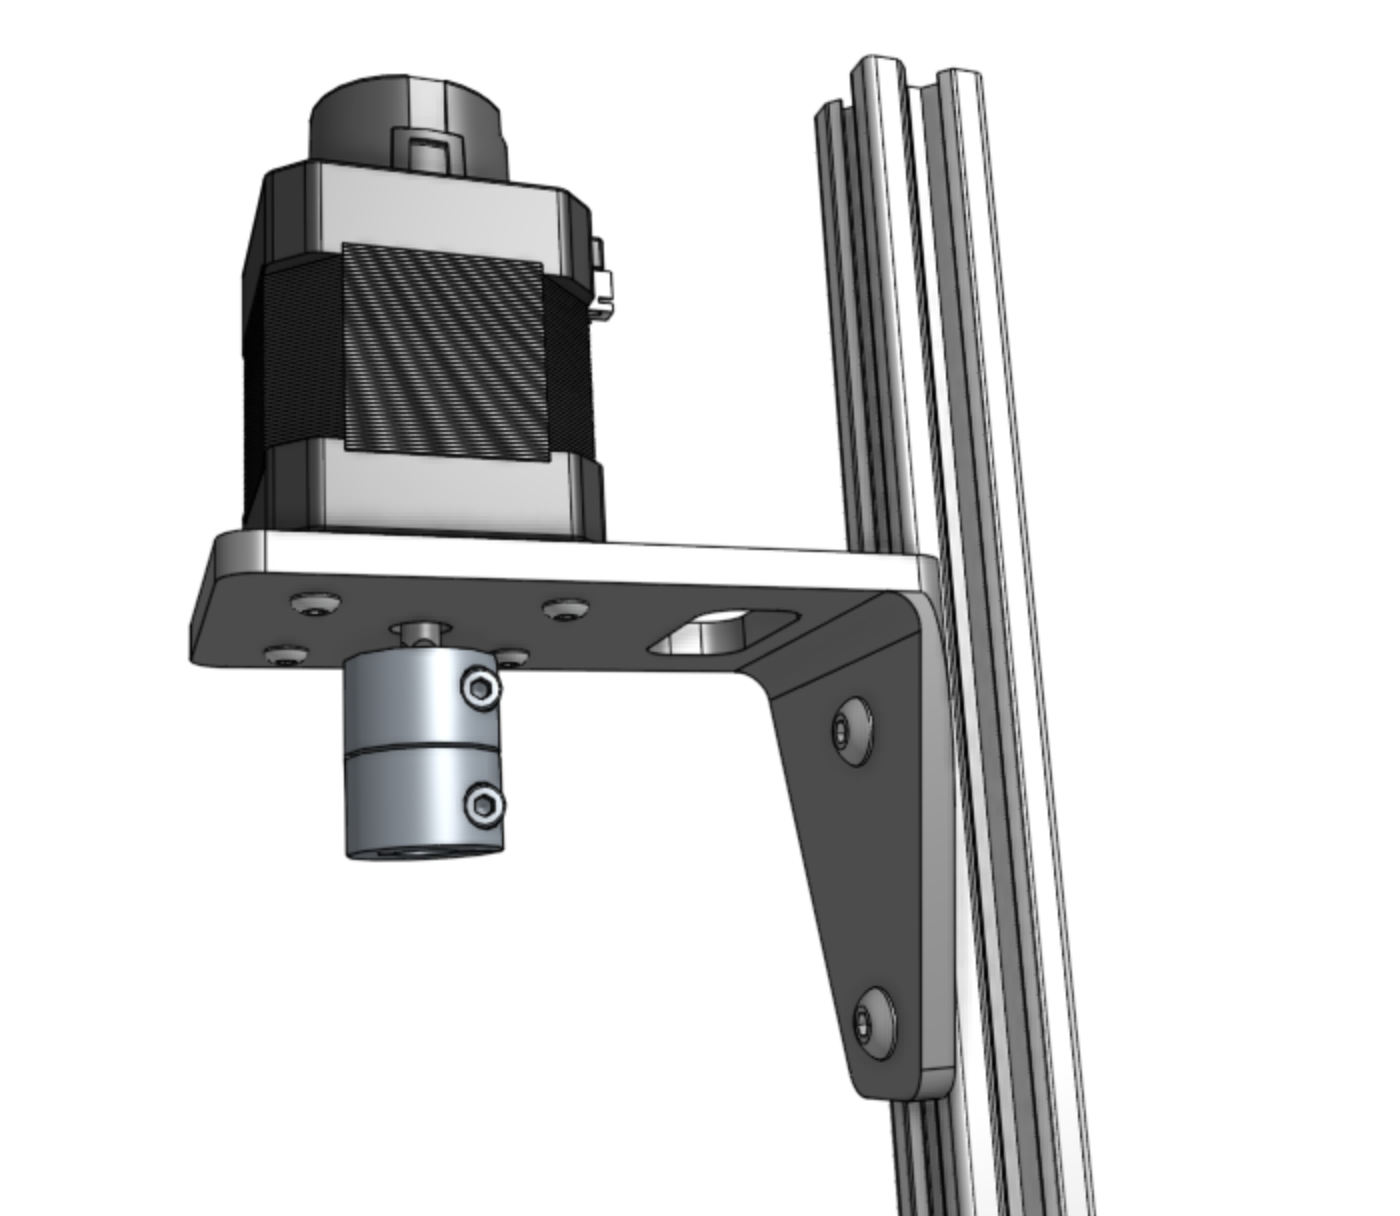
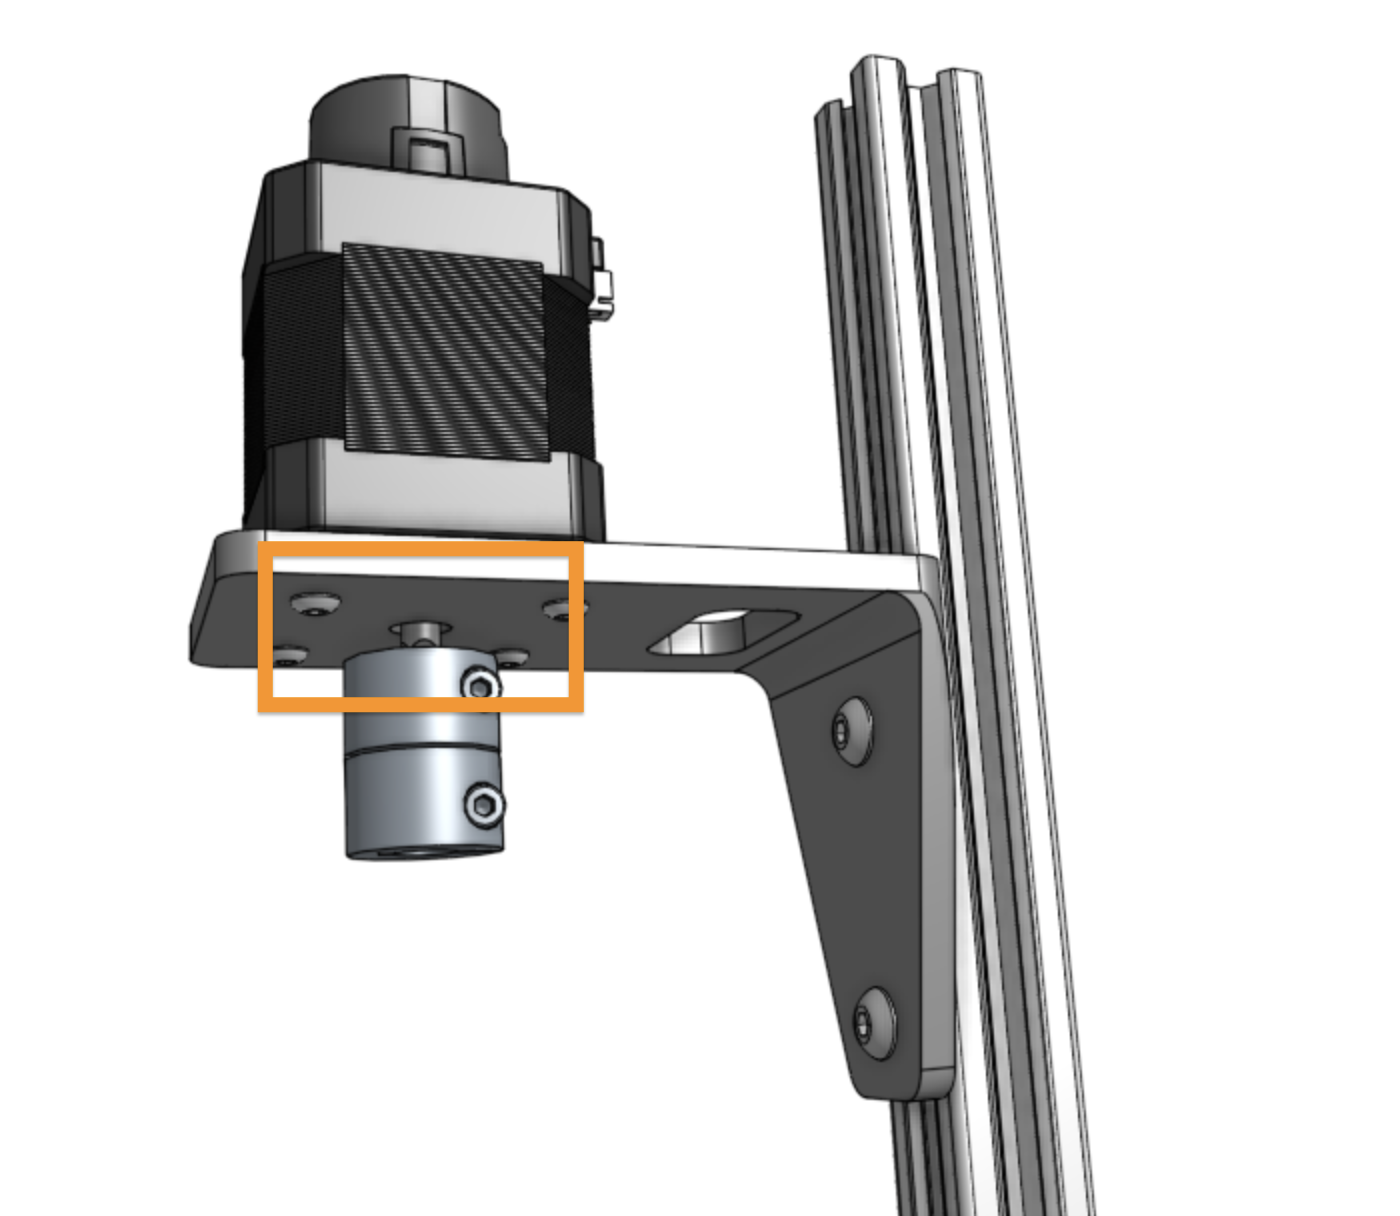
eccentric spacer and z movement improvements

Changed region(s): [[0.1843, 0.4375, 0.43, 0.5938]]

diff --git a/v1.5/Extras/reference/eccentric-spacer-adjustment.md b/v1.5/Extras/reference/eccentric-spacer-adjustment.md
@@ -12,6 +12,7 @@ Eccentric spacers are used for making fine adjustments to the spacing between th
 If the spacing between v-wheels is too little, then the extrusions will not fit between the v-wheels at all or be tough to move. If the spacing is too great, then the connection will be wobbly and loose. Let's adjust the eccentric spacers throughout FarmBot to be just right.
 
 # Fit test
+
 First, see if the extrusion will easily slide in between the v-wheels. It will very likely either be too loose and wobble, or too tight and not fit at all. Take note of which v-wheels need adjustment.
 
 {%
@@ -21,30 +22,50 @@ title="Don't use force"
 content="If the wheel spacing is too small, do not force it on. Excessive force can cause a screw or plate to bend, introduce significant friction to the system, cause a wheel to deform, or induce other damage."
 %}
 
-
-
 ![gantry wheel plate fit test](_images/gantry_wheel_plate_fit_test.png)
 
-# Adjusting the eccentric spacer
+# Adjusting the eccentric spacers
+
 1. Separate the extrusion and the wheel/plate assembly
 2. Using an **8mm wrench**, turn the **eccentric spacer** that needs adjusting about 1/32 of a turn. Depending on the direction you turn the spacer, and the current orientation of the spacer, the spacing will either increase or decrease. Your goal is to adjust the spacer in the direction you need. Make the spacing smaller if the connection was loose. Make the spacing larger if the extrusion did not fit between the v-wheels or if there was a lot of friction. The notch in the side of the eccentric spacer indicates the shortest distance, so moving the notch towards the other wheels will decrease the spacing.
 3. Once you have adjusted the spacer 1/32 of a turn, do another fit test.
 4. Continue the steps above for all eccentric spacers until your connections are smooth and wobble free.
 
+## Gantry wheel plates
+
+These eccentric spacers on the gantry wheel plates affect the fit of the gantry wheel plates on the tracks. To set the spacers to the loosest setting, position the `6mm` engraving on the spacers facing away from the track extrusions (down).
+
+{% include gallery.html images="
+![gantry wheel plate eccentric spacers loosest](_images/gantry_wheel_plate_eccentric_spacers_loosest.png)
 ![gantry wheel plate eccentric spacers](_images/gantry_wheel_plate_eccentric_spacers.png)
+" %}
 
-_The eccentric spacers on this gantry wheel plate have been highlighted orange for clarity._
+## Cross-slide
 
+These eccentric spacers on the cross-slide affect the fit of the cross-slide on the gantry main beam. To set the spacers to the loosest setting, position the `6mm` engraving on the spacers facing away from the gantry main beam.
 
+{% include gallery.html images="
+![cross-slide eccentric spacers loosest](_images/cross_slide_eccentric_spacers_loosest.png)
+![cross-slide eccentric spacers](_images/cross_slide_eccentric_spacers.png)
+" %}
+
+## Z-axis
+
+These eccentric spacers on the cross-slide affect the fit of the z-axis in the cross-slide. To set the spacers to the loosest setting, position the `6mm` engraving on the spacers facing away from the z-axis extrusion.
+
+{% include gallery.html images="
+![z-axis eccentric spacers loosest](_images/z_axis_eccentric_spacers_loosest.png)
+![z-axis eccentric spacers](_images/z_axis_eccentric_spacers.png)
+" %}
 
 {%
 include callout.html
 type="info"
 title="Need just a little more space?"
-content="If the fit of the wheels on the extrusion is still too tight after adjusting all of the eccentric spacers to their loosest setting (flat section and `6mm` engraving facing away from the extrusion), you can increase the distance between the two sets of wheels slightly more by adjusting the wheels with standard spacers as well. Loosen the screw attaching a wheel with a standard spacer (non-eccentric) until the single wheel assembly can be moved around in its the hole in the plate. Gently nudge the wheel assembly in its hole so that it is farther from the extrusion and re-tighten the screw. Repeat for the other wheels attached with standard spacers as necessary."
+content="If the fit of the wheels on the extrusion is still too tight after adjusting all of the eccentric spacers to their loosest setting (`6mm` engraving facing away from the extrusion), you can increase the distance between the two sets of wheels slightly more by adjusting the wheels with standard spacers as well.
+
+Loosen the screws attaching the wheels with standard spacers (non-eccentric) until the wheel assemblies can be moved around in the holes in the plate. Gently nudge the wheel assemblies in the holes so that they are farthest from the extrusion and re-tighten the screws."
 %}
-
-
 
 {%
 include callout.html

diff --git a/v1.6/extras/reference/eccentric-spacer-adjustment.md b/v1.6/extras/reference/eccentric-spacer-adjustment.md
@@ -12,6 +12,7 @@ Eccentric spacers are used for making fine adjustments to the spacing between th
 If the spacing between v-wheels is too little, then the extrusions will not fit between the v-wheels at all or be tough to move. If the spacing is too great, then the connection will be wobbly and loose. Let's adjust the eccentric spacers throughout FarmBot to be just right.
 
 # Fit test
+
 First, see if the extrusion will easily slide in between the v-wheels. It will very likely either be too loose and wobble, or too tight and not fit at all. Take note of which v-wheels need adjustment.
 
 {%
@@ -21,30 +22,50 @@ title="Don't use force"
 content="If the wheel spacing is too small, do not force it on. Excessive force can cause a screw or plate to bend, introduce significant friction to the system, cause a wheel to deform, or induce other damage."
 %}
 
-
-
 ![gantry wheel plate fit test](_images/gantry_wheel_plate_fit_test.png)
 
-# Adjusting the eccentric spacer
+# Adjusting the eccentric spacers
+
 1. Separate the extrusion and the wheel/plate assembly
 2. Using an **8mm wrench**, turn the **eccentric spacer** that needs adjusting about 1/32 of a turn. Depending on the direction you turn the spacer, and the current orientation of the spacer, the spacing will either increase or decrease. Your goal is to adjust the spacer in the direction you need. Make the spacing smaller if the connection was loose. Make the spacing larger if the extrusion did not fit between the v-wheels or if there was a lot of friction. The notch in the side of the eccentric spacer indicates the shortest distance, so moving the notch towards the other wheels will decrease the spacing.
 3. Once you have adjusted the spacer 1/32 of a turn, do another fit test.
 4. Continue the steps above for all eccentric spacers until your connections are smooth and wobble free.
 
+## Gantry wheel plates
+
+These eccentric spacers on the gantry wheel plates affect the fit of the gantry wheel plates on the tracks. To set the spacers to the loosest setting, position the `6mm` engraving on the spacers facing away from the track extrusions (down).
+
+{% include gallery.html images="
+![gantry wheel plate eccentric spacers loosest](_images/gantry_wheel_plate_eccentric_spacers_loosest.png)
 ![gantry wheel plate eccentric spacers](_images/gantry_wheel_plate_eccentric_spacers.png)
+" %}
 
-_The eccentric spacers on this gantry wheel plate have been highlighted orange for clarity._
+## Cross-slide
 
+These eccentric spacers on the cross-slide affect the fit of the cross-slide on the gantry main beam. To set the spacers to the loosest setting, position the `6mm` engraving on the spacers facing away from the gantry main beam.
 
+{% include gallery.html images="
+![cross-slide eccentric spacers loosest](_images/cross_slide_eccentric_spacers_loosest.png)
+![cross-slide eccentric spacers](_images/cross_slide_eccentric_spacers.png)
+" %}
+
+## Z-axis
+
+These eccentric spacers on the cross-slide affect the fit of the z-axis in the cross-slide. To set the spacers to the loosest setting, position the `6mm` engraving on the spacers facing away from the z-axis extrusion.
+
+{% include gallery.html images="
+![z-axis eccentric spacers loosest](_images/z_axis_eccentric_spacers_loosest.png)
+![z-axis eccentric spacers](_images/z_axis_eccentric_spacers.png)
+" %}
 
 {%
 include callout.html
 type="info"
 title="Need just a little more space?"
-content="If the fit of the wheels on the extrusion is still too tight after adjusting all of the eccentric spacers to their loosest setting (flat section and `6mm` engraving facing away from the extrusion), you can increase the distance between the two sets of wheels slightly more by adjusting the wheels with standard spacers as well. Loosen the screw attaching a wheel with a standard spacer (non-eccentric) until the single wheel assembly can be moved around in its the hole in the plate. Gently nudge the wheel assembly in its hole so that it is farther from the extrusion and re-tighten the screw. Repeat for the other wheels attached with standard spacers as necessary."
+content="If the fit of the wheels on the extrusion is still too tight after adjusting all of the eccentric spacers to their loosest setting (`6mm` engraving facing away from the extrusion), you can increase the distance between the two sets of wheels slightly more by adjusting the wheels with standard spacers as well.
+
+Loosen the screws attaching the wheels with standard spacers (non-eccentric) until the wheel assemblies can be moved around in the holes in the plate. Gently nudge the wheel assemblies in the holes so that they are farthest from the extrusion and re-tighten the screws."
 %}
-
-
 
 {%
 include callout.html

diff --git a/v1.5/Extras/troubleshooting/z-axis-movements.md b/v1.5/Extras/troubleshooting/z-axis-movements.md
@@ -8,13 +8,29 @@ description: "The z-axis frequently stalls when moving upwards. Movements may fa
 {:toc}
 
 # 1. Adjust the z-axis speed and acceleration
+
 Try lowering the z-axis **[MAX SPEED](https://my.farm.bot/app/designer/settings?highlight=max_speed)** and **[ACCELERATE FOR](https://my.farm.bot/app/designer/settings?highlight=accelerate_for)** a longer distance. You may try halving the default max speed and doubling the default acceleration distance as a starting point, but because every FarmBot installation is a bit different, you will need to experiment to find the best values for you.
 
 # 2. Check the z-axis eccentric spacers
+
 Check the **eccentric spacers** on the **cross-slide** that are used to adjust the **v-wheels** that support the **z-axis extrusion**. If the eccentric spacers are adjusted too tightly, then they will exert too much force onto the z-axis extrusion which can make it difficult or impossible for the z-axis motor to raise the z-axis. With the FarmBot powered off, you should be able to rotate the leadscrew by hand without too much effort. If the eccentric spacers are too tight, this will be very difficult to do.
 
 # 3. Lubricate the leadscrew
+
 It is possible that dust and debris can build up on the **leadscrew** causing additional friction between the leadscrew and the **leadscrew block**. Clean the leadscrew with a rag and then add some lubricant which can be purchased from a local hardware store.
+
+We recommend using a dry graphite lubricant spray which will coat the surface with a fast drying coating of graphite to create a slippery surface that reduces the resistance of movement through the leadscrew block and also may decrease any noise from the leadscrew.
+
+We have found a product called [Jig-a-Loo Graphite Lubricant](https://www.amazon.com/dp/B08285N7LG/) that can help reduce friction on the FarmBot Z-axis leadscrew. Here is a [YouTube video](https://youtu.be/lyZ465jdO2Y) that shows how the product is used and the typical applications.
+
+Apply enough graphite lubricant so that the hue of the screw looks significantly darker than the original silver metallic color. You should use enough graphite lubricant so that the screw should appear black or dark grey. This will allow the screw to operate without friction and vibrations. Please apply the graphite lubricant to the bottom 90% of the lead screw leaving the very top 10% unlubricated so that a sturdy grip can be applied to leadscrew by the coupler.
+
+{%
+include callout.html
+type="warning"
+title="Do not use oil, silicon, or lithium based lubricants"
+content="These types of lubricants will attract dust and gum up causing poor performance. Only graphite lubricants are acceptable."
+%}
 
 {%
 include callout.html
@@ -24,4 +40,5 @@ content="In case you are reading this document and also have issues with movemen
 %}
 
 # 4. Adjust the stepper driver to deliver more power
+
 For Genesis v1.5+ kits, increase the z-axis **[MOTOR CURRENT](https://my.farm.bot/app/designer/settings?highlight=motor_current)** by 100 or 200 milliamps. For v1.4 kits and below, you can adjust the **z-axis stepper driver** to deliver more power to the **z-axis motor** using the instructions at the bottom of [this post](https://forum.farmbot.org/t/why-is-my-farmbot-not-moving/2093).

diff --git a/v1.6/extras/troubleshooting/z-axis-movements.md b/v1.6/extras/troubleshooting/z-axis-movements.md
@@ -8,13 +8,29 @@ description: "The z-axis frequently stalls when moving upwards. Movements may fa
 {:toc}
 
 # 1. Adjust the z-axis speed and acceleration
+
 Try lowering the z-axis **[MAX SPEED](https://my.farm.bot/app/designer/settings?highlight=max_speed)** and **[ACCELERATE FOR](https://my.farm.bot/app/designer/settings?highlight=accelerate_for)** a longer distance. You may try halving the default max speed and doubling the default acceleration distance as a starting point, but because every FarmBot installation is a bit different, you will need to experiment to find the best values for you.
 
 # 2. Check the z-axis eccentric spacers
+
 Check the **eccentric spacers** on the **cross-slide** that are used to adjust the **v-wheels** that support the **z-axis extrusion**. If the eccentric spacers are adjusted too tightly, then they will exert too much force onto the z-axis extrusion which can make it difficult or impossible for the z-axis motor to raise the z-axis. With the FarmBot powered off, you should be able to rotate the leadscrew by hand without too much effort. If the eccentric spacers are too tight, this will be very difficult to do.
 
 # 3. Lubricate the leadscrew
+
 It is possible that dust and debris can build up on the **leadscrew** causing additional friction between the leadscrew and the **leadscrew block**. Clean the leadscrew with a rag and then add some lubricant which can be purchased from a local hardware store.
+
+We recommend using a dry graphite lubricant spray which will coat the surface with a fast drying coating of graphite to create a slippery surface that reduces the resistance of movement through the leadscrew block and also may decrease any noise from the leadscrew.
+
+We have found a product called [Jig-a-Loo Graphite Lubricant](https://www.amazon.com/dp/B08285N7LG/) that can help reduce friction on the FarmBot Z-axis leadscrew. Here is a [YouTube video](https://youtu.be/lyZ465jdO2Y) that shows how the product is used and the typical applications.
+
+Apply enough graphite lubricant so that the hue of the screw looks significantly darker than the original silver metallic color. You should use enough graphite lubricant so that the screw should appear black or dark grey. This will allow the screw to operate without friction and vibrations. Please apply the graphite lubricant to the bottom 90% of the lead screw leaving the very top 10% unlubricated so that a sturdy grip can be applied to leadscrew by the coupler.
+
+{%
+include callout.html
+type="warning"
+title="Do not use oil, silicon, or lithium based lubricants"
+content="These types of lubricants will attract dust and gum up causing poor performance. Only graphite lubricants are acceptable."
+%}
 
 {%
 include callout.html
@@ -24,4 +40,5 @@ content="In case you are reading this document and also have issues with movemen
 %}
 
 # 4. Adjust the stepper driver to deliver more power
+
 For Genesis v1.5+ kits, increase the z-axis **[MOTOR CURRENT](https://my.farm.bot/app/designer/settings?highlight=motor_current)** by 100 or 200 milliamps. For v1.4 kits and below, you can adjust the **z-axis stepper driver** to deliver more power to the **z-axis motor** using the instructions at the bottom of [this post](https://forum.farmbot.org/t/why-is-my-farmbot-not-moving/2093).

diff --git a/v1.5/FarmBot-Genesis-V1.5/z-axis.md b/v1.5/FarmBot-Genesis-V1.5/z-axis.md
@@ -40,6 +40,13 @@ Attach the **z-axis motor mount** to the **z-axis extrusion** using a **60mm nut
 
 Slide the **5mm to 8mm shaft coupling** onto the **motor shaft** and tighten the top screw with the **2.5mm hex key**.
 
+{%
+include callout.html
+type="warning"
+title="Mind the gap"
+content="Make sure there is a small gap (about 2mm) between the shaft coupling and the z-axis motor mount. You might use a credit card to help provide the correct spacing needed."
+%}
+
 ![z-axis motor with coupling](_images/z-axis_motor_with_coupling.png)
 
 # Step 4: Attach three cable carrier supports

diff --git a/v1.6/assembly/z-axis.md b/v1.6/assembly/z-axis.md
@@ -40,6 +40,13 @@ Attach the **z-axis motor mount** to the **z-axis extrusion** using a **60mm nut
 
 Slide the **5mm to 8mm shaft coupling** onto the **motor shaft** and tighten the top screw with the **2.5mm hex key**.
 
+{%
+include callout.html
+type="warning"
+title="Mind the gap"
+content="Make sure there is a small gap (about 2mm) between the shaft coupling and the z-axis motor mount. You might use a credit card to help provide the correct spacing needed."
+%}
+
 ![z-axis motor with coupling](_images/z-axis_motor_with_coupling.png)
 
 # Step 4: Attach three cable carrier supports
